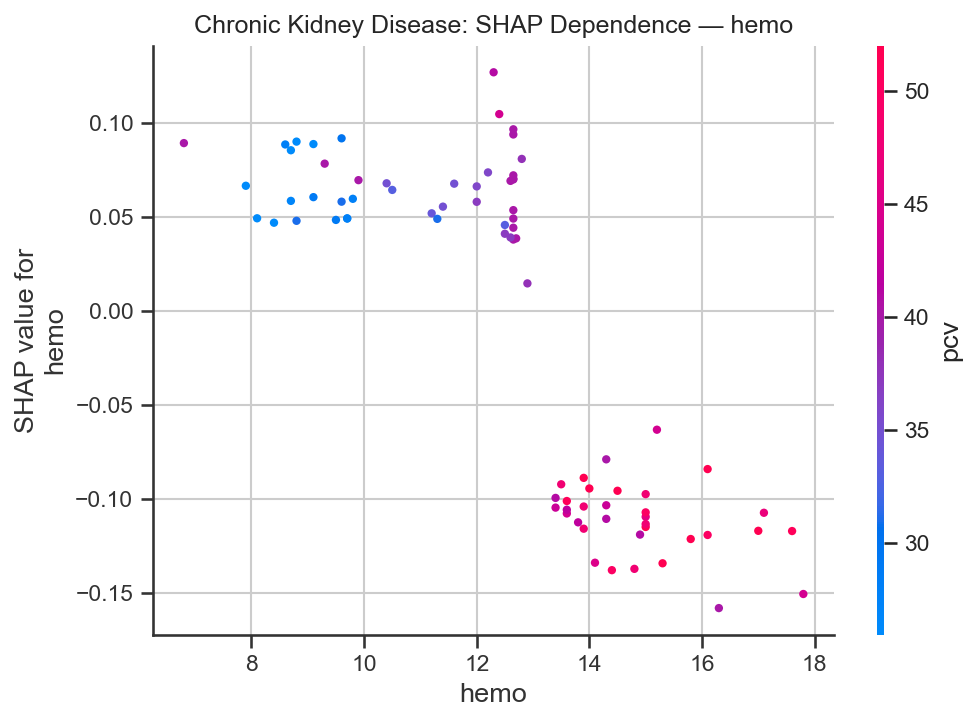
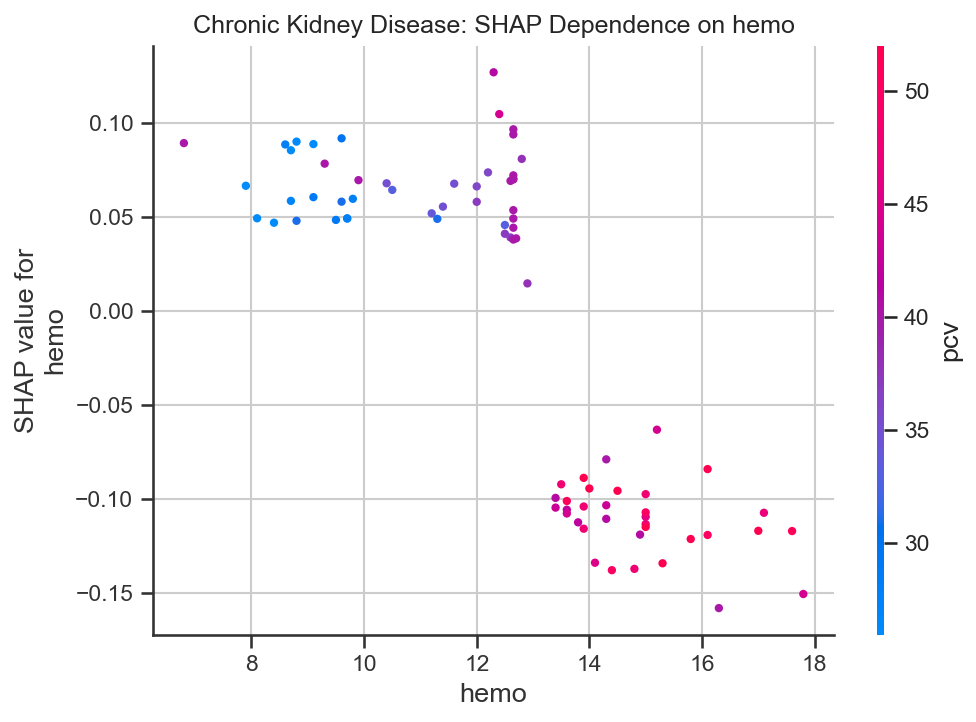
Redesign the app with full field labels and a cleaner interface; remove em dashes throughout
The CKD and Heart Disease forms used raw lab-shorthand column names (sg, bu,
sod, cp, thal...) that mean nothing without a medical background. Every
field now shows its full spelled-out name, and Heart Disease's numeric
category codes (sex, chest pain type, ECG result, etc.) now show as real
text options instead of bare numbers.

Also reworked the visual design: a gradient header, card-style sections, a
colored risk result card with a probability bar, and a cleaner SHAP chart.
Added an explicit Streamlit theme and fixed a label-visibility bug where
the light card's text could render invisible against a dark base theme.

Removed em dashes from all user-facing and source text across the app,
README, and notebook-generation scripts, and regenerated the notebook and
its SHAP figures to match.

Changed region(s): [[0.2152, 0.0, 0.8299, 0.0609]]

diff --git a/app/app.py b/app/app.py
@@ -1,4 +1,4 @@
-"""Multi-Disease Risk Predictor — a small deployed demonstration of the
+"""Multi-Disease Risk Predictor. A small deployed demonstration of the
 research notebook's three trained models (Chronic Kidney Disease, Heart
 Disease, Diabetes), each with a per-prediction SHAP explanation.
 
@@ -39,13 +39,131 @@ _shap_tree.decode_ubjson_buffer = _patched_decode_ubjson_buffer
 
 HERE = os.path.dirname(os.path.abspath(__file__))
 
-st.set_page_config(page_title="Multi-Disease Risk Predictor", layout="centered")
+st.set_page_config(page_title="Multi-Disease Risk Predictor", page_icon="🩺", layout="centered")
 
 MODEL_FILES = {
     "Chronic Kidney Disease": "chronic_kidney_disease_model.joblib",
     "Heart Disease": "heart_disease_model.joblib",
     "Diabetes": "diabetes_model.joblib",
 }
+
+# Full, spelled-out labels for every field. The raw dataset columns use lab
+# shorthand (sg, bu, sod, rbcc...) that means nothing without a medical
+# background, so the form shows the real name and the model keeps the
+# original column name underneath.
+FEATURE_LABELS = {
+    # Chronic Kidney Disease
+    "age": "Age (years)",
+    "bp": "Blood Pressure (mm Hg)",
+    "sg": "Urine Specific Gravity",
+    "al": "Albumin Level (0-5 scale)",
+    "su": "Sugar Level (0-5 scale)",
+    "rbc": "Red Blood Cells in Urine",
+    "pc": "Pus Cells in Urine",
+    "pcc": "Pus Cell Clumps",
+    "ba": "Bacteria in Urine",
+    "bgr": "Random Blood Glucose (mg/dL)",
+    "bu": "Blood Urea (mg/dL)",
+    "sc": "Serum Creatinine (mg/dL)",
+    "sod": "Sodium Level (mEq/L)",
+    "pot": "Potassium Level (mEq/L)",
+    "hemo": "Hemoglobin (g/dL)",
+    "pcv": "Packed Cell Volume (%)",
+    "wbcc": "White Blood Cell Count (cells/cumm)",
+    "rbcc": "Red Blood Cell Count (millions/cmm)",
+    "htn": "Hypertension",
+    "dm": "Diabetes Mellitus",
+    "cad": "Coronary Artery Disease",
+    "appet": "Appetite",
+    "pe": "Pedal Edema (Leg Swelling)",
+    "ane": "Anemia",
+    # Heart Disease
+    "sex": "Sex",
+    "cp": "Chest Pain Type",
+    "trestbps": "Resting Blood Pressure (mm Hg)",
+    "chol": "Serum Cholesterol (mg/dL)",
+    "fbs": "Fasting Blood Sugar Above 120 mg/dL",
+    "restecg": "Resting ECG Result",
+    "thalach": "Maximum Heart Rate Achieved",
+    "exang": "Exercise-Induced Angina",
+    "oldpeak": "ST Depression Induced by Exercise",
+    "slope": "Slope of Peak Exercise ST Segment",
+    "ca": "Major Vessels Visible on Fluoroscopy",
+    "thal": "Thalassemia Test Result",
+    # Diabetes
+    "Pregnancies": "Number of Pregnancies",
+    "Glucose": "Plasma Glucose Concentration (mg/dL)",
+    "BloodPressure": "Diastolic Blood Pressure (mm Hg)",
+    "SkinThickness": "Triceps Skinfold Thickness (mm)",
+    "Insulin": "2-Hour Serum Insulin (mu U/mL)",
+    "BMI": "Body Mass Index",
+    "DiabetesPedigreeFunction": "Diabetes Pedigree Function Score",
+    "Age": "Age (years)",
+}
+
+# Heart Disease stores several fields as numeric codes rather than text
+# (the UCI dataset's own convention). Mapped to real options here so nobody
+# has to type a bare code they'd have to look up.
+HEART_CATEGORY_MAPS = {
+    "sex": {0: "Female", 1: "Male"},
+    "cp": {1: "Typical Angina", 2: "Atypical Angina", 3: "Non-Anginal Pain", 4: "Asymptomatic"},
+    "fbs": {0: "No", 1: "Yes"},
+    "restecg": {0: "Normal", 1: "ST-T Wave Abnormality", 2: "Left Ventricular Hypertrophy"},
+    "exang": {0: "No", 1: "Yes"},
+    "slope": {1: "Upsloping", 2: "Flat", 3: "Downsloping"},
+    "thal": {3: "Normal", 6: "Fixed Defect", 7: "Reversible Defect"},
+}
+
+CUSTOM_CSS = """
+<style>
+#MainMenu, footer {visibility: hidden;}
+.block-container {padding-top: 2rem; padding-bottom: 3rem; max-width: 760px;}
+
+.app-header {
+    padding: 1.75rem 2rem;
+    border-radius: 16px;
+    background: linear-gradient(135deg, #2563EB 0%, #1E40AF 100%);
+    color: white;
+    margin-bottom: 1.75rem;
+}
+.app-header h1 {color: white; font-size: 1.75rem; margin: 0 0 0.4rem 0;}
+.app-header p {color: #DBEAFE; font-size: 0.95rem; margin: 0; line-height: 1.5;}
+
+div[data-testid="stForm"] {
+    border: 1px solid #E2E8F0;
+    border-radius: 14px;
+    padding: 1.5rem 1.5rem 0.5rem 1.5rem;
+    background: #F8FAFC;
+}
+/* Force readable label/text color inside the light card, regardless of
+   whether the viewer's Streamlit theme defaults to light or dark text. */
+div[data-testid="stForm"] label,
+div[data-testid="stForm"] label p,
+div[data-testid="stForm"] div[data-testid="stWidgetLabel"] p,
+div[data-testid="stForm"] span {
+    color: #0F172A !important;
+}
+div[data-testid="stSelectbox"] div[data-baseweb="select"] > div {
+    color: #0F172A !important;
+}
+
+.result-card {
+    border-radius: 14px;
+    padding: 1.25rem 1.5rem;
+    margin: 1.5rem 0 1rem 0;
+    border-left: 6px solid;
+}
+.result-high {background: #FEF2F2; border-color: #DC2626;}
+.result-low {background: #F0FDF4; border-color: #16A34A;}
+.result-card .risk-label {font-size: 1.1rem; font-weight: 700; margin-bottom: 0.2rem;}
+.result-high .risk-label {color: #B91C1C;}
+.result-low .risk-label {color: #15803D;}
+.result-card .risk-sub {font-size: 0.9rem; color: #475569;}
+
+.section-title {font-size: 1rem; font-weight: 600; color: #0F172A; margin: 0.25rem 0 0.75rem 0;}
+.disclaimer {font-size: 0.8rem; color: #64748B; margin-top: 1rem; line-height: 1.5;}
+</style>
+"""
 
 
 @st.cache_resource
@@ -59,6 +177,10 @@ def load_model(disease):
     return joblib.load(os.path.join(HERE, MODEL_FILES[disease]))
 
 
+def field_label(name):
+    return FEATURE_LABELS.get(name, name)
+
+
 def build_input_form(disease, schema):
     fields = schema[disease]["fields"]
     cat_options = schema[disease]["categorical_options"]
@@ -66,28 +188,35 @@ def build_input_form(disease, schema):
     cols = st.columns(2)
     for i, field in enumerate(fields):
         name = field["name"]
+        label = field_label(name)
         col = cols[i % 2]
         with col:
             if name in cat_options:
-                choice = st.selectbox(name, cat_options[name], key=f"{disease}_{name}")
+                choice = st.selectbox(label, cat_options[name], key=f"{disease}_{name}")
                 values[name] = cat_options[name].index(choice)
+            elif disease == "Heart Disease" and name in HEART_CATEGORY_MAPS:
+                option_map = HEART_CATEGORY_MAPS[name]
+                choice = st.selectbox(label, list(option_map.values()), key=f"{disease}_{name}")
+                reverse = {v: k for k, v in option_map.items()}
+                values[name] = reverse[choice]
             elif field["is_int"]:
                 values[name] = st.number_input(
-                    name, min_value=int(field["min"]), max_value=int(field["max"]) * 2 + 1,
+                    label, min_value=int(field["min"]), max_value=int(field["max"]) * 2 + 1,
                     value=int(field["default"]), step=1, key=f"{disease}_{name}",
                 )
             else:
                 values[name] = st.number_input(
-                    name, min_value=0.0, max_value=float(field["max"]) * 3 + 1,
+                    label, min_value=0.0, max_value=float(field["max"]) * 3 + 1,
                     value=float(field["default"]), step=0.1, key=f"{disease}_{name}",
                 )
     return values
 
 
 def explain_prediction(model, X_row, feature_names):
-    explainer = shap.TreeExplainer(model) if hasattr(model, "get_booster") or model.__class__.__name__ == "RandomForestClassifier" else None
-    if explainer is None:
+    is_tree_model = hasattr(model, "get_booster") or model.__class__.__name__ == "RandomForestClassifier"
+    if not is_tree_model:
         return None
+    explainer = shap.TreeExplainer(model)
     sv = explainer.shap_values(X_row)
     if isinstance(sv, list):
         sv = sv[1]
@@ -95,30 +224,47 @@ def explain_prediction(model, X_row, feature_names):
         sv = sv[:, :, 1]
     sv = sv[0]
     order = np.argsort(np.abs(sv))[::-1][:8]
-    fig, ax = plt.subplots(figsize=(6, 4))
-    colors = ["#C44E52" if sv[i] > 0 else "#4C72B0" for i in order]
-    ax.barh([feature_names[i] for i in order][::-1], sv[order][::-1], color=colors[::-1])
-    ax.set_xlabel("SHAP value (pushes risk up / down)")
-    ax.set_title("Why the model said this")
+    labels = [field_label(feature_names[i]) for i in order][::-1]
+    values = sv[order][::-1]
+
+    plt.rcParams["font.size"] = 10
+    fig, ax = plt.subplots(figsize=(6.4, 4.2))
+    colors = ["#DC2626" if v > 0 else "#2563EB" for v in values]
+    ax.barh(labels, values, color=colors, height=0.6)
+    ax.axvline(0, color="#94A3B8", linewidth=0.8)
+    ax.set_xlabel("Effect on predicted risk (right = higher, left = lower)")
+    ax.set_title("What drove this prediction", fontsize=12, fontweight="bold", loc="left")
+    for spine in ("top", "right"):
+        ax.spines[spine].set_visible(False)
     fig.tight_layout()
     return fig
 
 
-st.title("Multi-Disease Risk Predictor")
-st.caption(
-    "A demonstration tool built on the same ensemble models used in the research paper "
-    "'A Unified Explainable Ensemble Machine Learning Framework for Early Prediction of "
-    "Multiple Chronic Diseases Using Routine Clinical Biomarkers.' For research and "
-    "educational demonstration only — not a diagnostic device."
+st.markdown(CUSTOM_CSS, unsafe_allow_html=True)
+
+st.markdown(
+    """
+    <div class="app-header">
+        <h1>🩺 Multi-Disease Risk Predictor</h1>
+        <p>A demonstration tool built on the models from the research paper
+        "A Unified Explainable Ensemble Machine Learning Framework for Early
+        Prediction of Multiple Chronic Diseases Using Routine Clinical
+        Biomarkers." For research and educational use only. It is not a
+        diagnostic device.</p>
+    </div>
+    """,
+    unsafe_allow_html=True,
 )
 
 schema = load_schema()
 disease = st.selectbox("Choose a condition to check", list(MODEL_FILES.keys()))
 
-st.subheader(f"Enter clinical values for {disease}")
-values = build_input_form(disease, schema)
+with st.form(key="prediction_form"):
+    st.markdown(f'<div class="section-title">Clinical values for {disease}</div>', unsafe_allow_html=True)
+    values = build_input_form(disease, schema)
+    submitted = st.form_submit_button("Predict risk", type="primary", use_container_width=True)
 
-if st.button("Predict risk", type="primary"):
+if submitted:
     model = load_model(disease)
     feature_order = [f["name"] for f in schema[disease]["fields"]]
     X_row = pd.DataFrame([[values[name] for name in feature_order]], columns=feature_order)
@@ -126,21 +272,31 @@ if st.button("Predict risk", type="primary"):
     proba = model.predict_proba(X_row)[0][1]
     pred = int(proba >= 0.5)
 
-    st.markdown("---")
-    if pred:
-        st.error(f"Predicted risk: **HIGH** ({proba * 100:.1f}% estimated probability)")
-    else:
-        st.success(f"Predicted risk: **LOW** ({proba * 100:.1f}% estimated probability)")
+    css_class = "result-high" if pred else "result-low"
+    risk_word = "HIGH" if pred else "LOW"
+    st.markdown(
+        f"""
+        <div class="result-card {css_class}">
+            <div class="risk-label">Predicted risk: {risk_word}</div>
+            <div class="risk-sub">Estimated probability: {proba * 100:.1f}%</div>
+        </div>
+        """,
+        unsafe_allow_html=True,
+    )
+    st.progress(min(max(proba, 0.0), 1.0))
 
     with st.spinner("Explaining this prediction..."):
         fig = explain_prediction(model, X_row, feature_order)
     if fig is not None:
         st.pyplot(fig)
     else:
-        st.info("Explanation isn't available for this model type.")
+        st.info("An explanation is not available for this model type.")
 
-    st.caption(
-        "This estimate comes from a machine learning model trained on a public research "
-        "dataset. It is not a medical diagnosis — consult a qualified clinician for any "
-        "real health concern."
+    st.markdown(
+        """
+        <p class="disclaimer">This estimate comes from a machine learning model trained on a
+        public research dataset. It is not a medical diagnosis. Talk to a qualified
+        clinician about any real health concern.</p>
+        """,
+        unsafe_allow_html=True,
     )

diff --git a/notebook/build_notebook.py b/notebook/build_notebook.py
@@ -15,8 +15,8 @@ def code(text):
 # ---------------------------------------------------------------- title ----
 md("""# A Unified Explainable Ensemble Machine Learning Framework for Early Prediction of Multiple Chronic Diseases Using Routine Clinical Biomarkers
 
-This notebook trains and explains the same ensemble learning pipeline — Random Forest, XGBoost, and a
-stacked ensemble of both — separately on three public clinical datasets (Chronic Kidney Disease, Heart
+This notebook trains and explains the same ensemble learning pipeline (Random Forest, XGBoost, and a
+stacked ensemble of both) separately on three public clinical datasets (Chronic Kidney Disease, Heart
 Disease, and Diabetes), then compares results and feature importance across all three. Every chart,
 table and dataset preview is saved to the project's `figures/` folder for use in the research paper.""")
 
@@ -225,7 +225,7 @@ md("""### Notes for the paper
 - `figures/` now holds, per disease: a raw and cleaned dataset preview table, a missing-values chart,
   summary statistics, class balance, correlation heatmap, feature distributions, boxplots by class,
   a full metrics comparison, built-in model feature importance, SHAP summary, and a SHAP dependence
-  plot for the single most important feature — plus one methodology diagram and the cross-disease F1
+  plot for the single most important feature, plus one methodology diagram and the cross-disease F1
   comparison.
 - `paper/all_results.csv` holds every metric for all nine model runs (3 diseases x 3 models).
 - `paper/top5_features_per_disease.csv` holds the top 5 SHAP-ranked features per disease.

diff --git a/notebook/common.py b/notebook/common.py
@@ -27,14 +27,14 @@ from xgboost import XGBClassifier
 
 sns.set_theme(style="whitegrid")
 
-RESULTS = []  # one row per (disease, model) — feeds the cross-disease comparison
+RESULTS = []  # one row per (disease, model); feeds the cross-disease comparison
 
 # --- compatibility fix -----------------------------------------------------
 # XGBoost 3.x stores "base_score" in its raw model dump as a bracketed
 # single-element array string (e.g. "[5E-1]") instead of a plain number.
 # shap 0.49.1's model loader calls float() on it directly and crashes. This
 # patch normalizes that one field right after shap decodes the raw model,
-# before its own parsing code touches it — nothing else is changed.
+# before its own parsing code touches it. Nothing else is changed.
 _original_decode_ubjson = _shap_tree.decode_ubjson_buffer
 
 
@@ -314,7 +314,7 @@ def shap_dependence_plot(model, X_train, X_test, top_feature, disease_name, figu
 
     fig = plt.figure(figsize=(7, 5))
     shap.dependence_plot(top_feature, shap_values, X_test, show=False, ax=plt.gca())
-    plt.title(f"{disease_name}: SHAP Dependence — {top_feature}")
+    plt.title(f"{disease_name}: SHAP Dependence on {top_feature}")
     plt.tight_layout()
     out = os.path.join(figures_dir, f"{_slug(disease_name)}_shap_dependence_{top_feature}.png")
     plt.savefig(out, dpi=150, bbox_inches="tight")

diff --git a/README.md b/README.md
@@ -1,17 +1,17 @@
 # A Unified Explainable Ensemble Machine Learning Framework for Early Prediction of Multiple Chronic Diseases Using Routine Clinical Biomarkers
 
 Research project supporting a Global Talent (academic/research) visa application. The same ensemble
-pipeline — Random Forest, XGBoost, and a stacked ensemble of both, each explained with SHAP — is
+pipeline, Random Forest, XGBoost, and a stacked ensemble of both, each explained with SHAP, is
 trained separately on three public clinical datasets (Chronic Kidney Disease, Heart Disease, and
 Diabetes), then compared across all three.
 
 ## Project layout
 
-- `data/` — the three public datasets (UCI Chronic Kidney Disease, UCI Heart Disease, Pima Indians Diabetes).
-- `notebook/` — `Multi_Disease_ML_Framework.ipynb`, the shared training/evaluation code (`common.py`), and the saved trained models.
-- `figures/` — every chart, table screenshot, and diagram generated by the notebook, used in the paper.
-- `app/` — the deployed Streamlit demonstration tool.
-- `paper/` — the research paper and its supporting result tables.
+- `data/`: the three public datasets (UCI Chronic Kidney Disease, UCI Heart Disease, Pima Indians Diabetes).
+- `notebook/`: `Multi_Disease_ML_Framework.ipynb`, the shared training/evaluation code (`common.py`), and the saved trained models.
+- `figures/`: every chart, table screenshot, and diagram generated by the notebook, used in the paper.
+- `app/`: the deployed Streamlit demonstration tool.
+- `paper/`: the research paper and its supporting result tables.
 
 ## Running the notebook
 
@@ -32,4 +32,4 @@ Deployed free on Streamlit Community Cloud: https://multi-disease-ml-framework.s
 
 ---
 
-For research and educational demonstration only — not a diagnostic device.
+For research and educational demonstration only. Not a diagnostic device.
